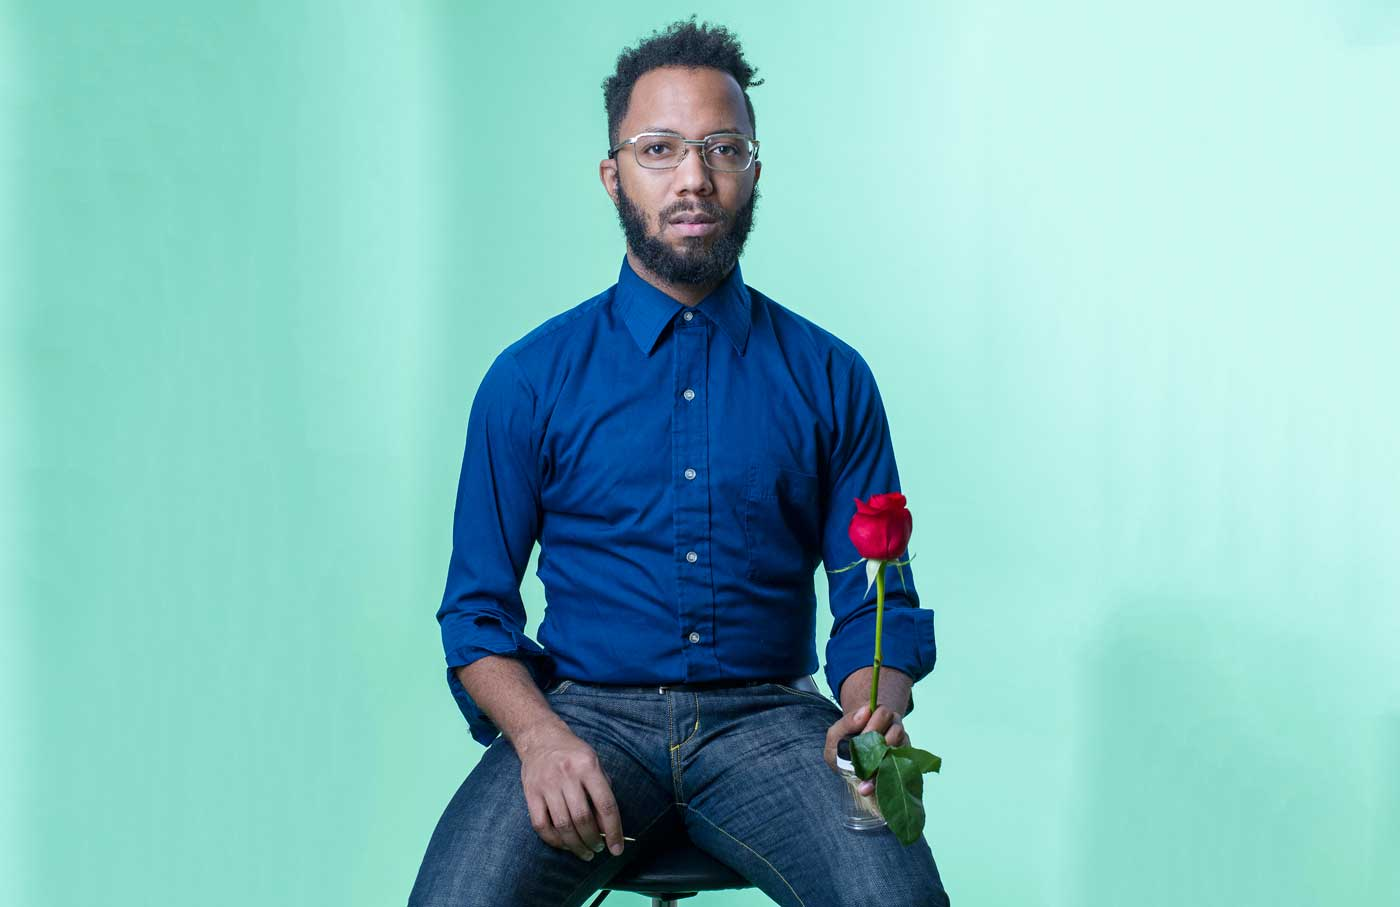
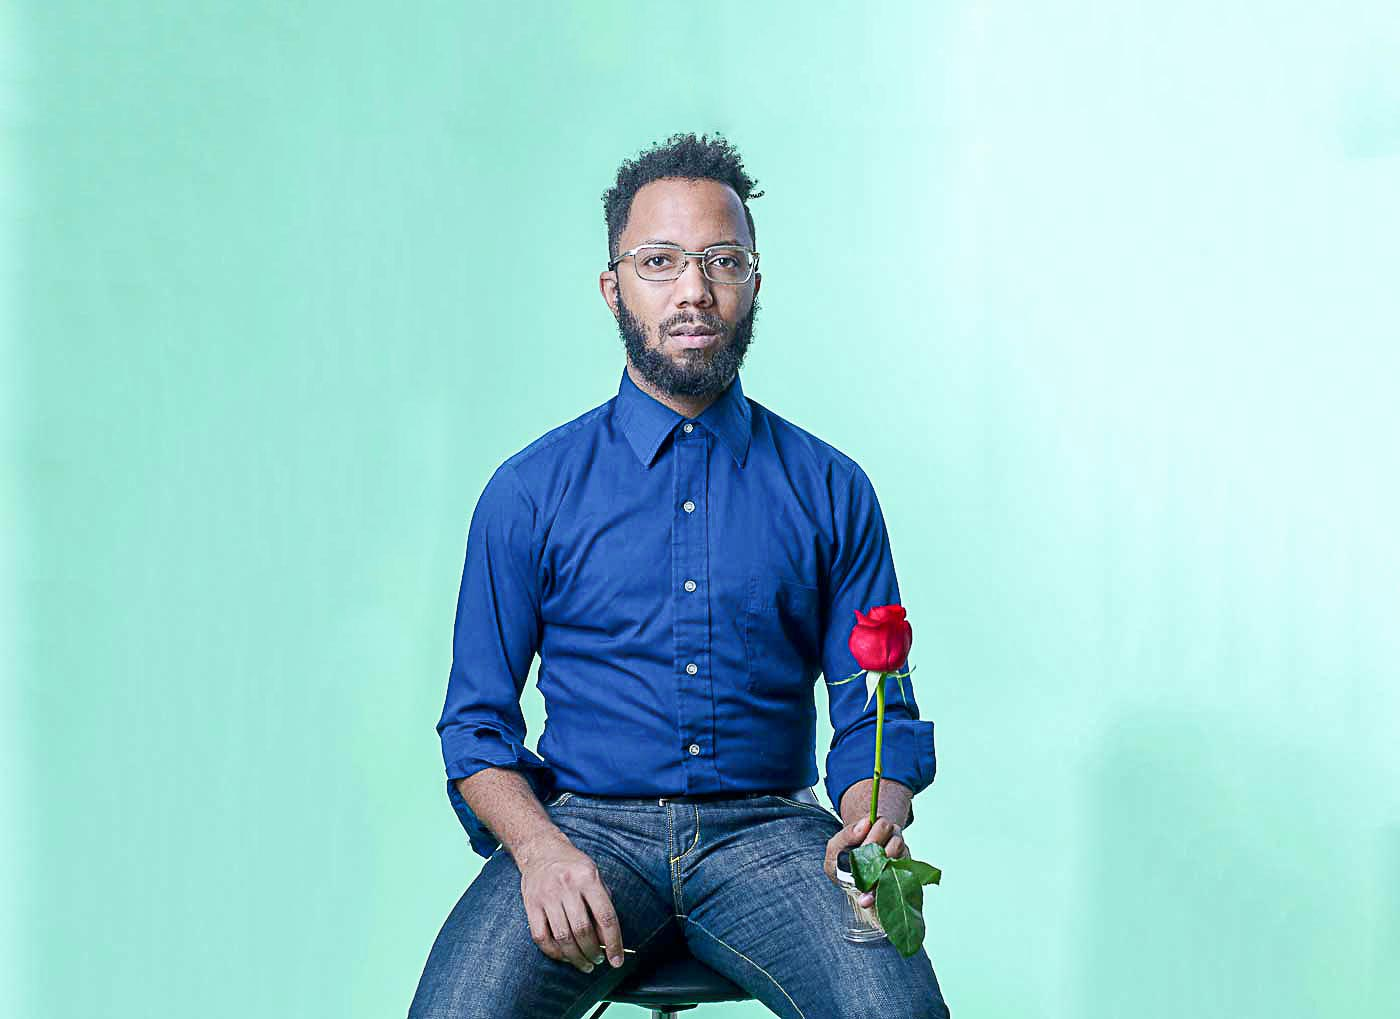
slow down fade, replace devin image

diff --git a/js/main.js b/js/main.js
@@ -93,7 +93,7 @@
 		});
 		//Vegas background carousel 
 		$('.image-background').vegas({
-			delay: 800,
+			delay: 2000,
 			timer: false,
 			shuffle: true,
 			firstTransition: 'fade',
